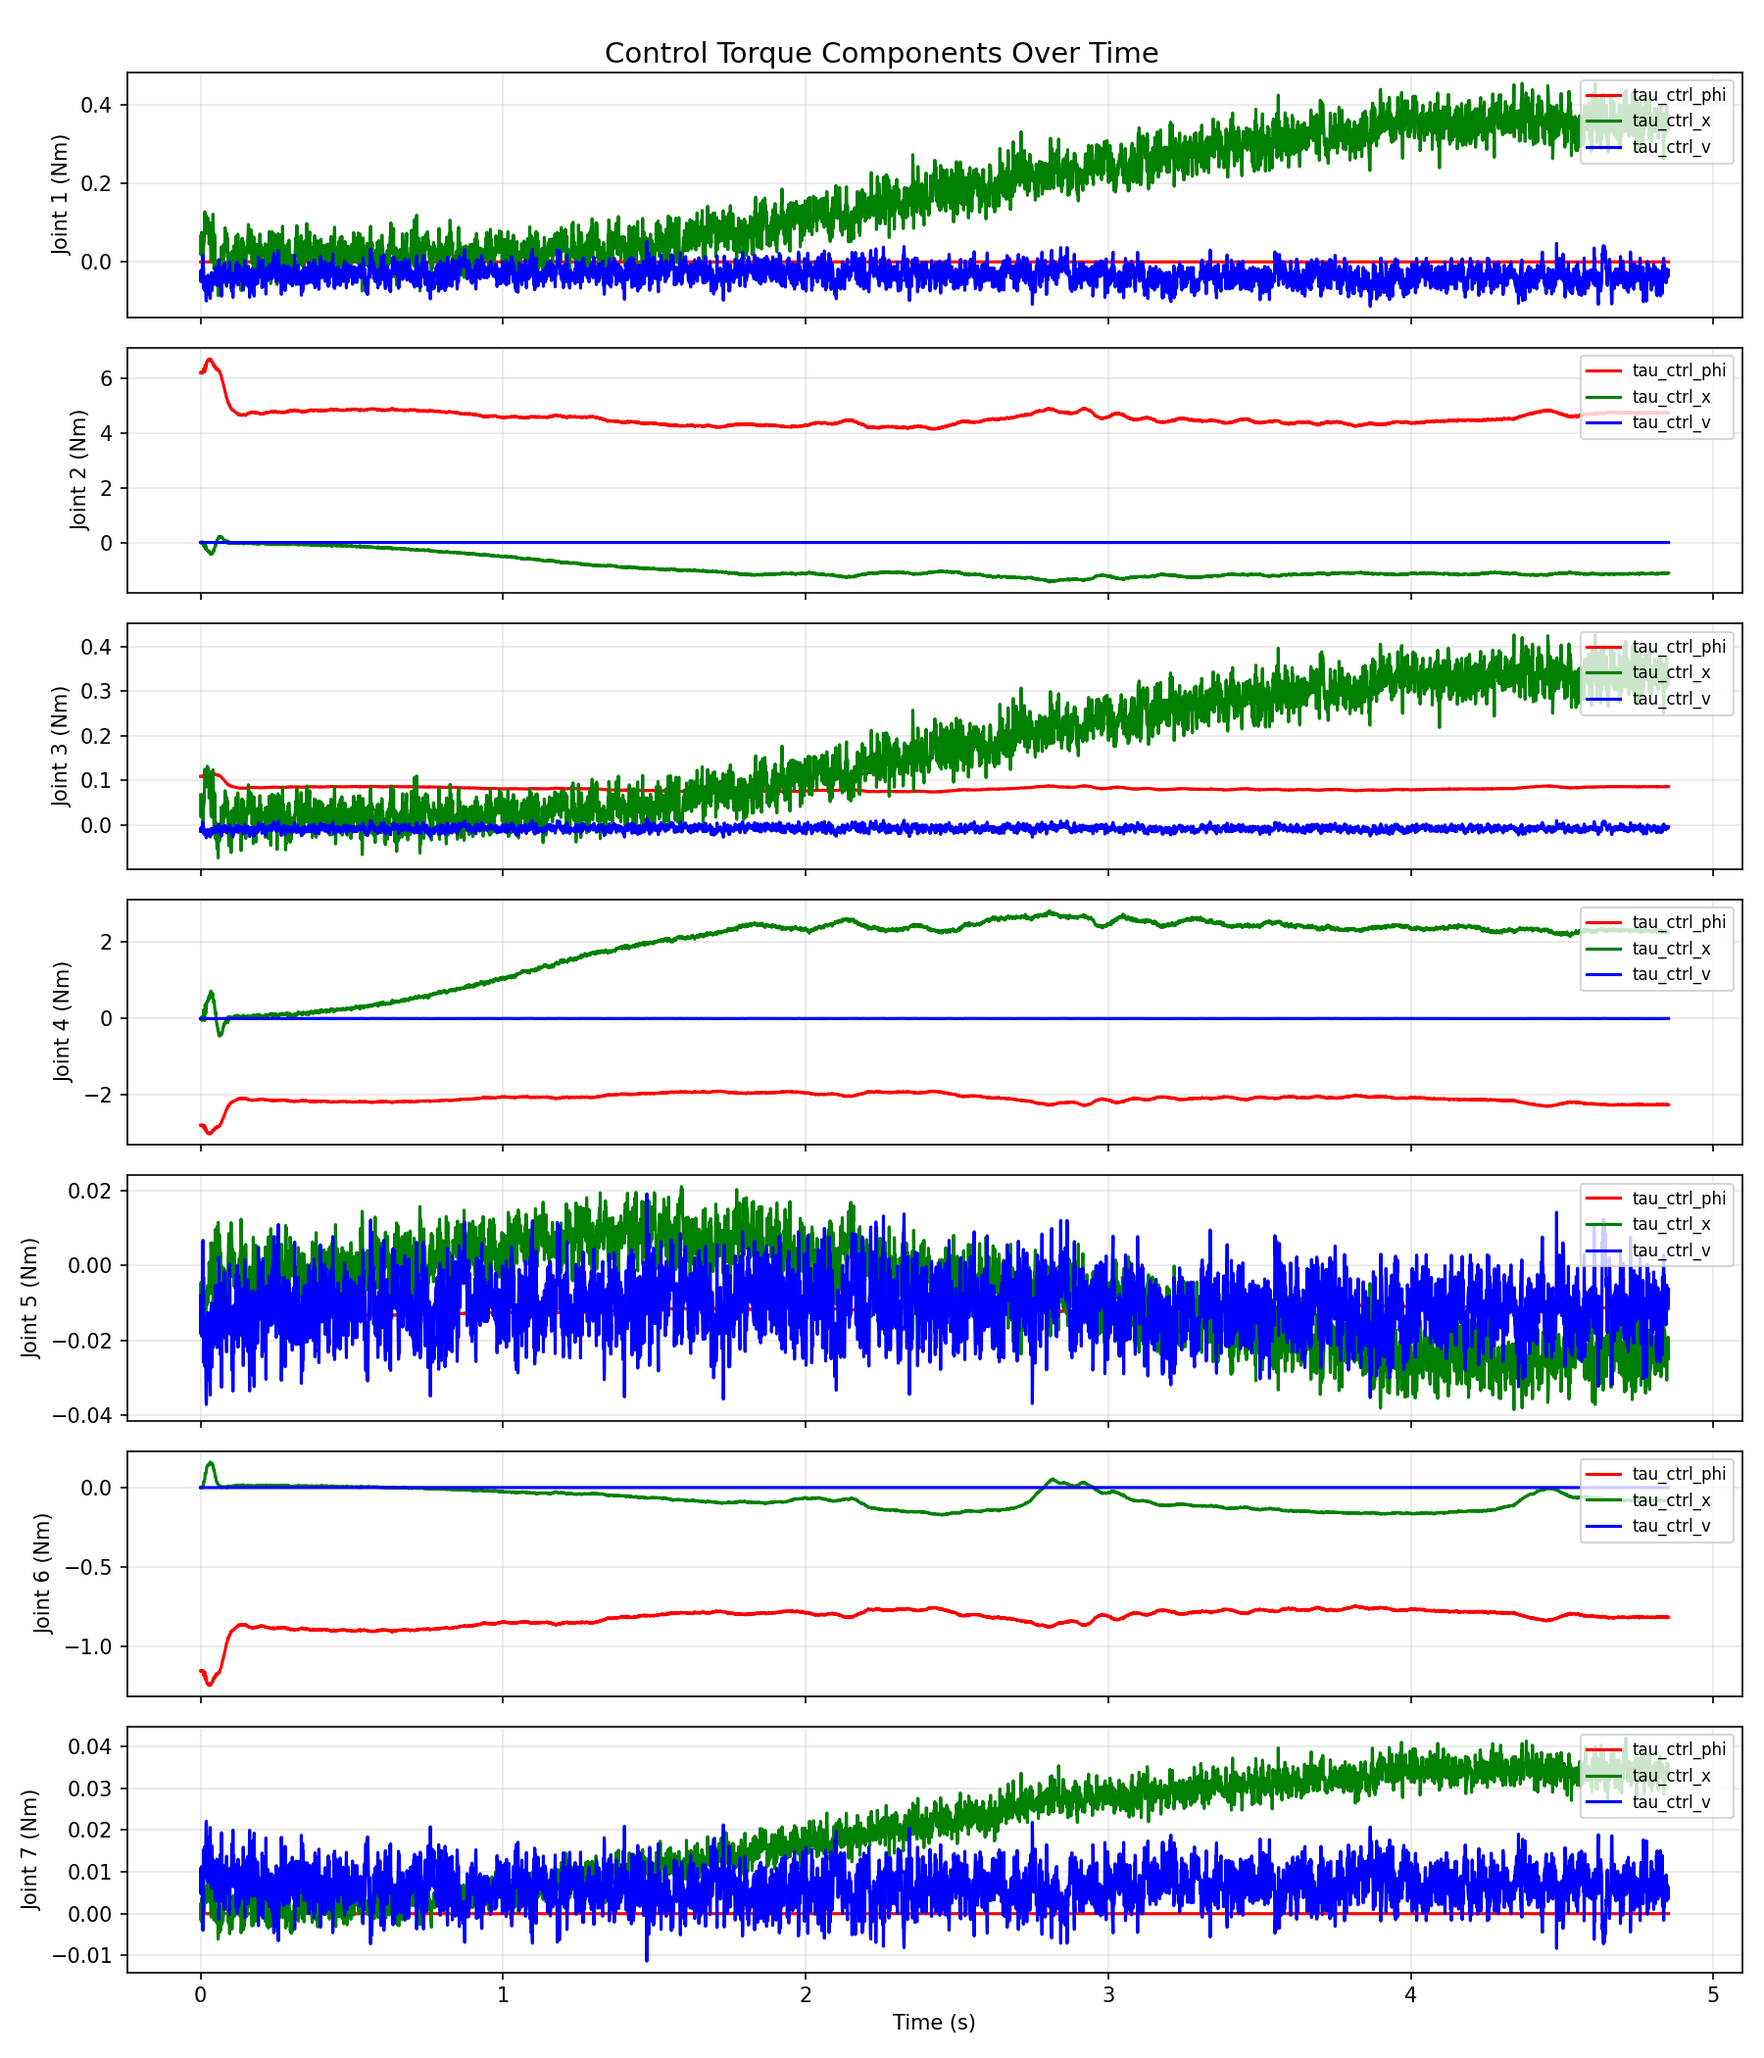
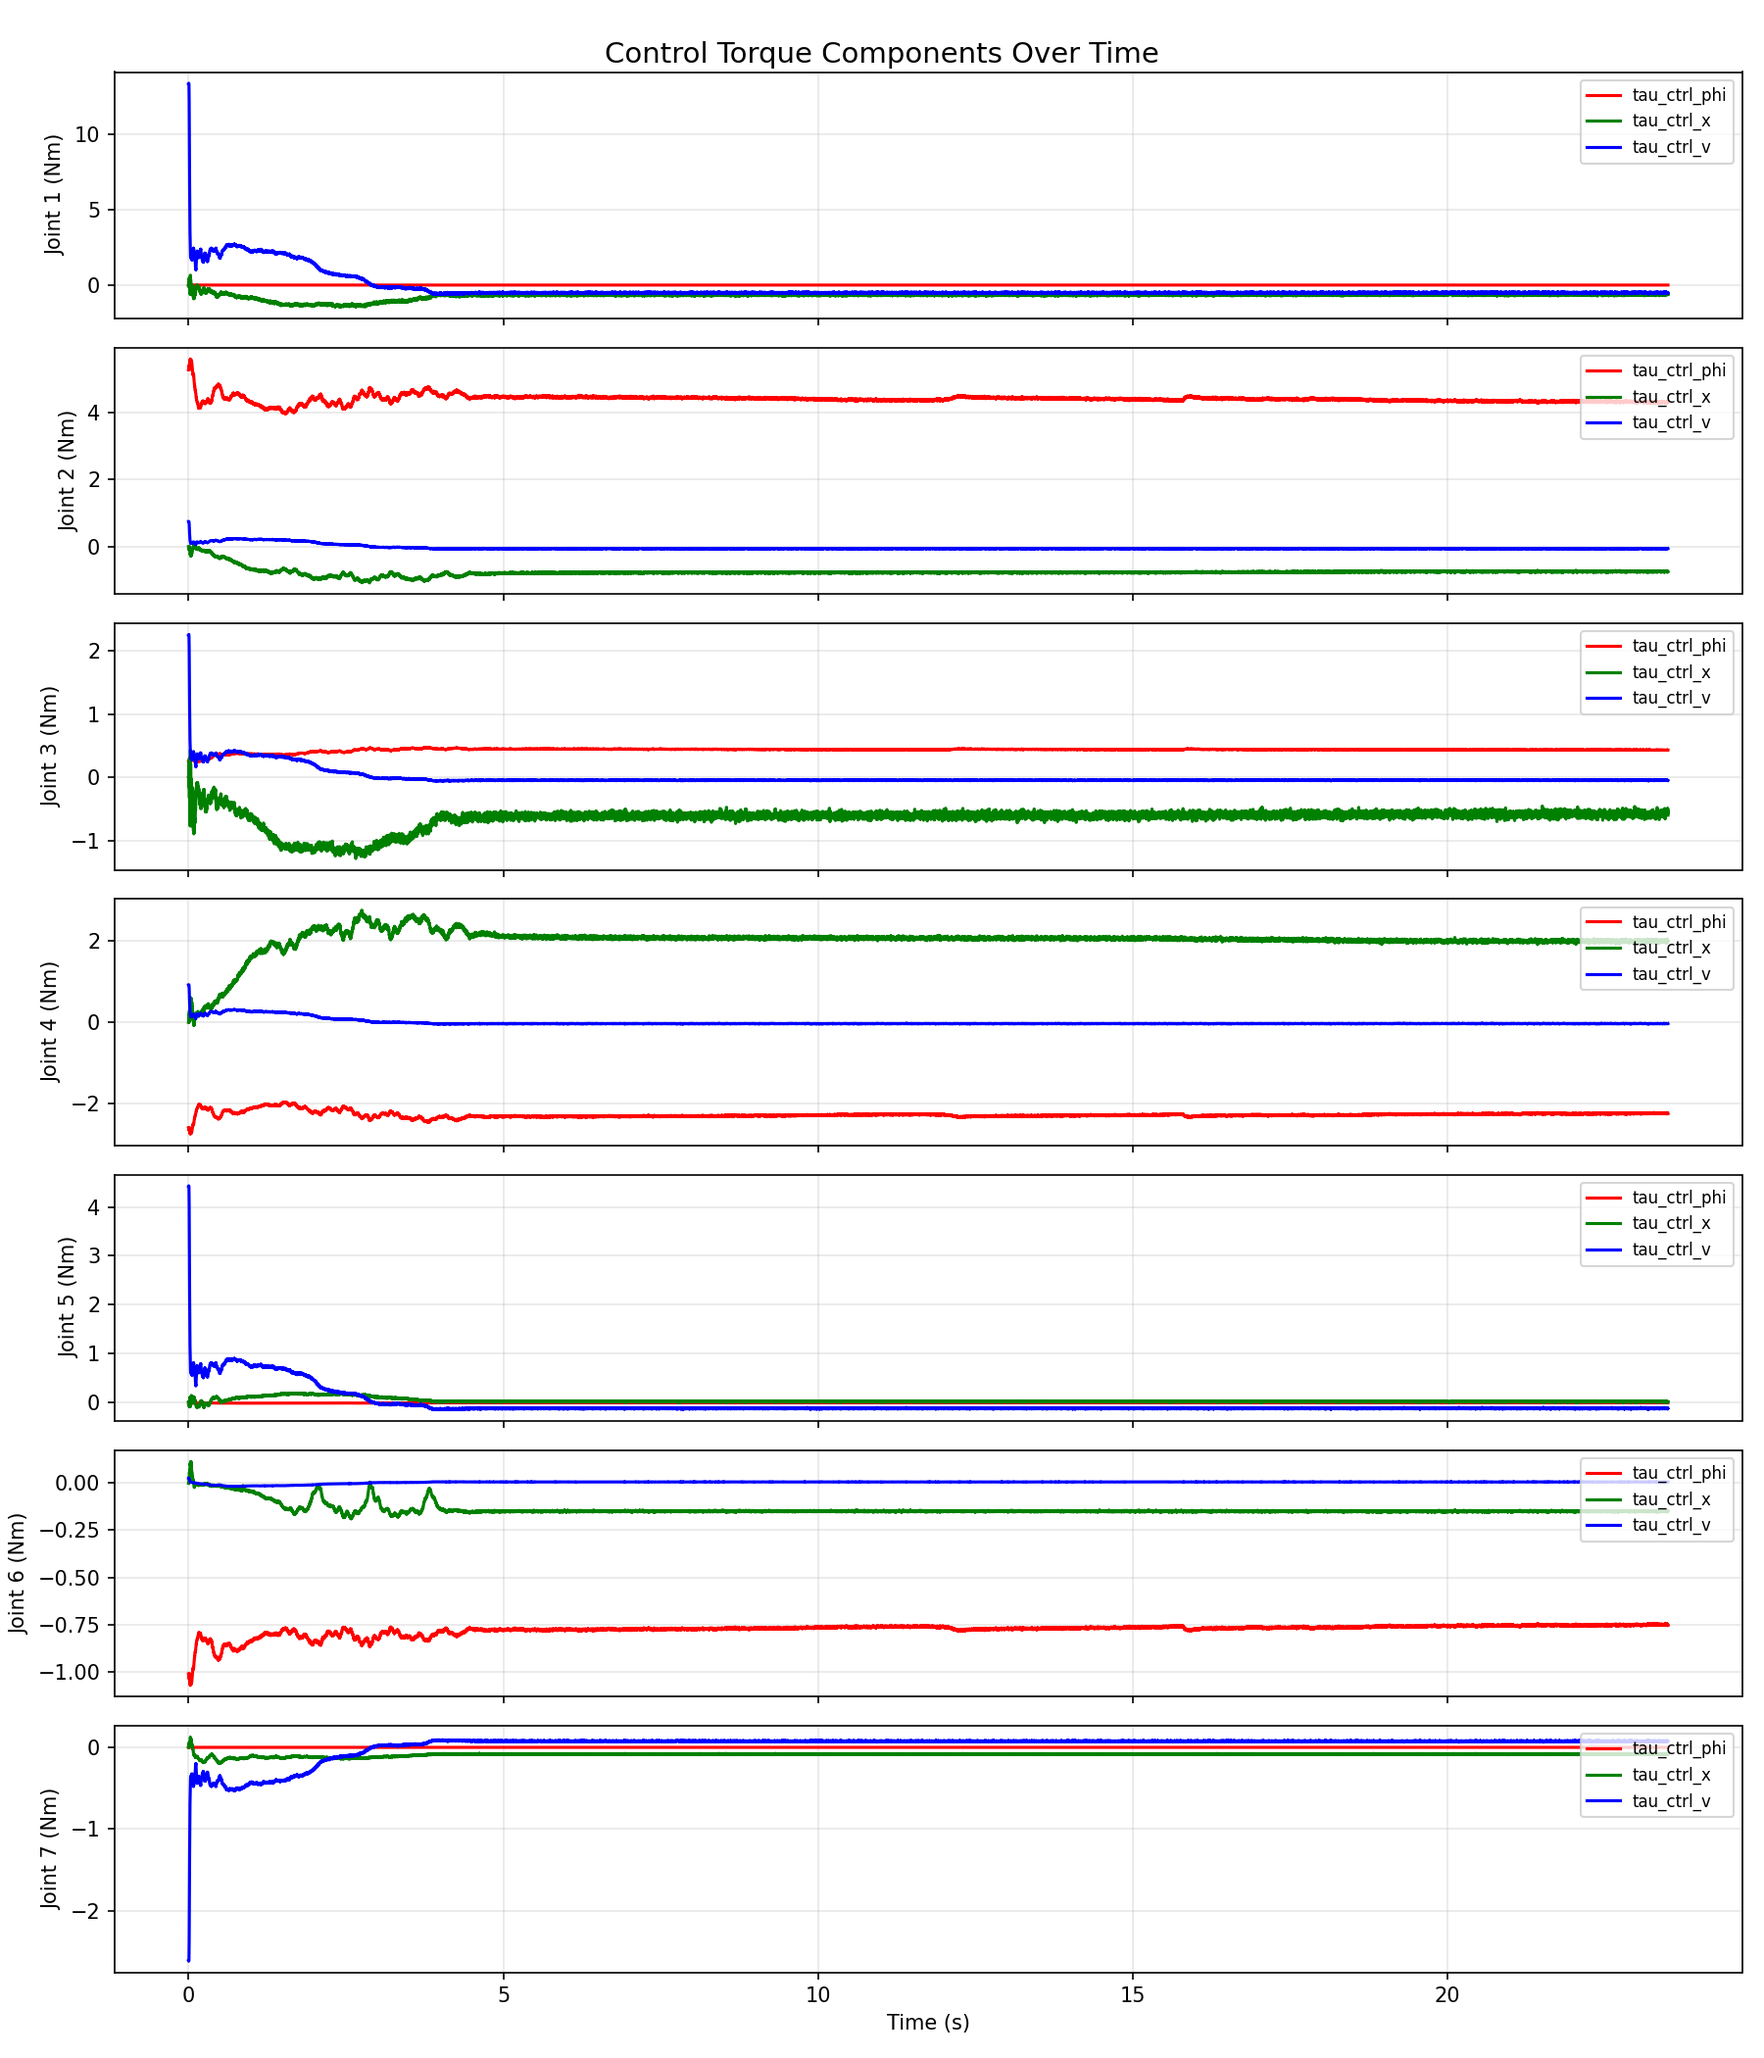
exp with scale

diff --git a/joint_position_swb.py b/joint_position_swb.py
@@ -36,8 +36,10 @@ def main() -> int:
         nargs=7,
         # default=[0.0, -0.785398163397, 0.0, -2.35619449019, 0.0, 1.57079632679, 0.785398163397],
         # default=[0.0002, 0.1411, -0.0928, -2.0621, -0.0024, 2.2852, 0.7764],
-        default=[0.0225, 0.7064, -0.0243, -2.3135, -0.0095, 3.0422, -0.2441], #circel center
+        # default=[0.0225, 0.7064, -0.0243, -2.3135, -0.0095, 3.0422, -0.2441], #circel center
         # default=[0.0222, 0.7526, -0.0251, -2.1784, -0.0089, 2.9499, -0.2435], #circel start point
+        # default=[0.1543, 0.4641, -0.0974, -2.5512, -0.0034, 3.0328, 0.6699],
+        default=[0.1137, 0.5506, -0.0727, -2.4394, 0.054, 2.9888, 0.7299],
         help="7 joint targets in rad (default: Franka start pose)",
     )
     parser.add_argument("--plot", action="store_true", help="Plot joint trajectories after motion")

diff --git a/src/hybrid_controller.py b/src/hybrid_controller.py
@@ -290,6 +290,8 @@ class HybridController:
         print(f"[HYBRID START] Center: {self.common_config.circle_center}")
         print(f"[HYBRID START] Radius: {self.common_config.circle_radius}")
         print(f"[HYBRID START] Force control: F_desired={self.config.F_desired_contact}")
+        print((f"[HYBRID START] start pos: {start_pos}"))
+        print((f"[HYBRID START] start pos: {end_pos}"))
 
     def update(self, current_time: float, robot_state) -> np.ndarray:
         """

diff --git a/run_hybrid_control_mujoco.py b/run_hybrid_control_mujoco.py
@@ -169,7 +169,7 @@ def main() -> None:
                     tau = hybrid_controller.update(sim_time, robot_state)
 
                     # Check if finished
-                    if hybrid_controller.is_finished():
+                    if hybrid_controller.is_target_reached(robot_state):
                         print("\n" + "=" * 60)
                         print(f"HYBRID CONTROL FINISHED at t={sim_time:.2f}s!")
                         print("=" * 60)

diff --git a/src/controller_config.py b/src/controller_config.py
@@ -38,6 +38,7 @@ class ControllerConfig:
     def __post_init__(self):
         """Set default values for array parameters."""
         if self.circle_center is None:
-            self.circle_center = np.array([0.4871, 0.0, 0.044])
+            # self.circle_center = np.array([0.4871, 0.0, 0.044])
+            self.circle_center = np.array([0.4634, 0.0108, 0.0857])
         if self.euler is None:
             self.euler = np.array([np.deg2rad(0), 0, 0])
